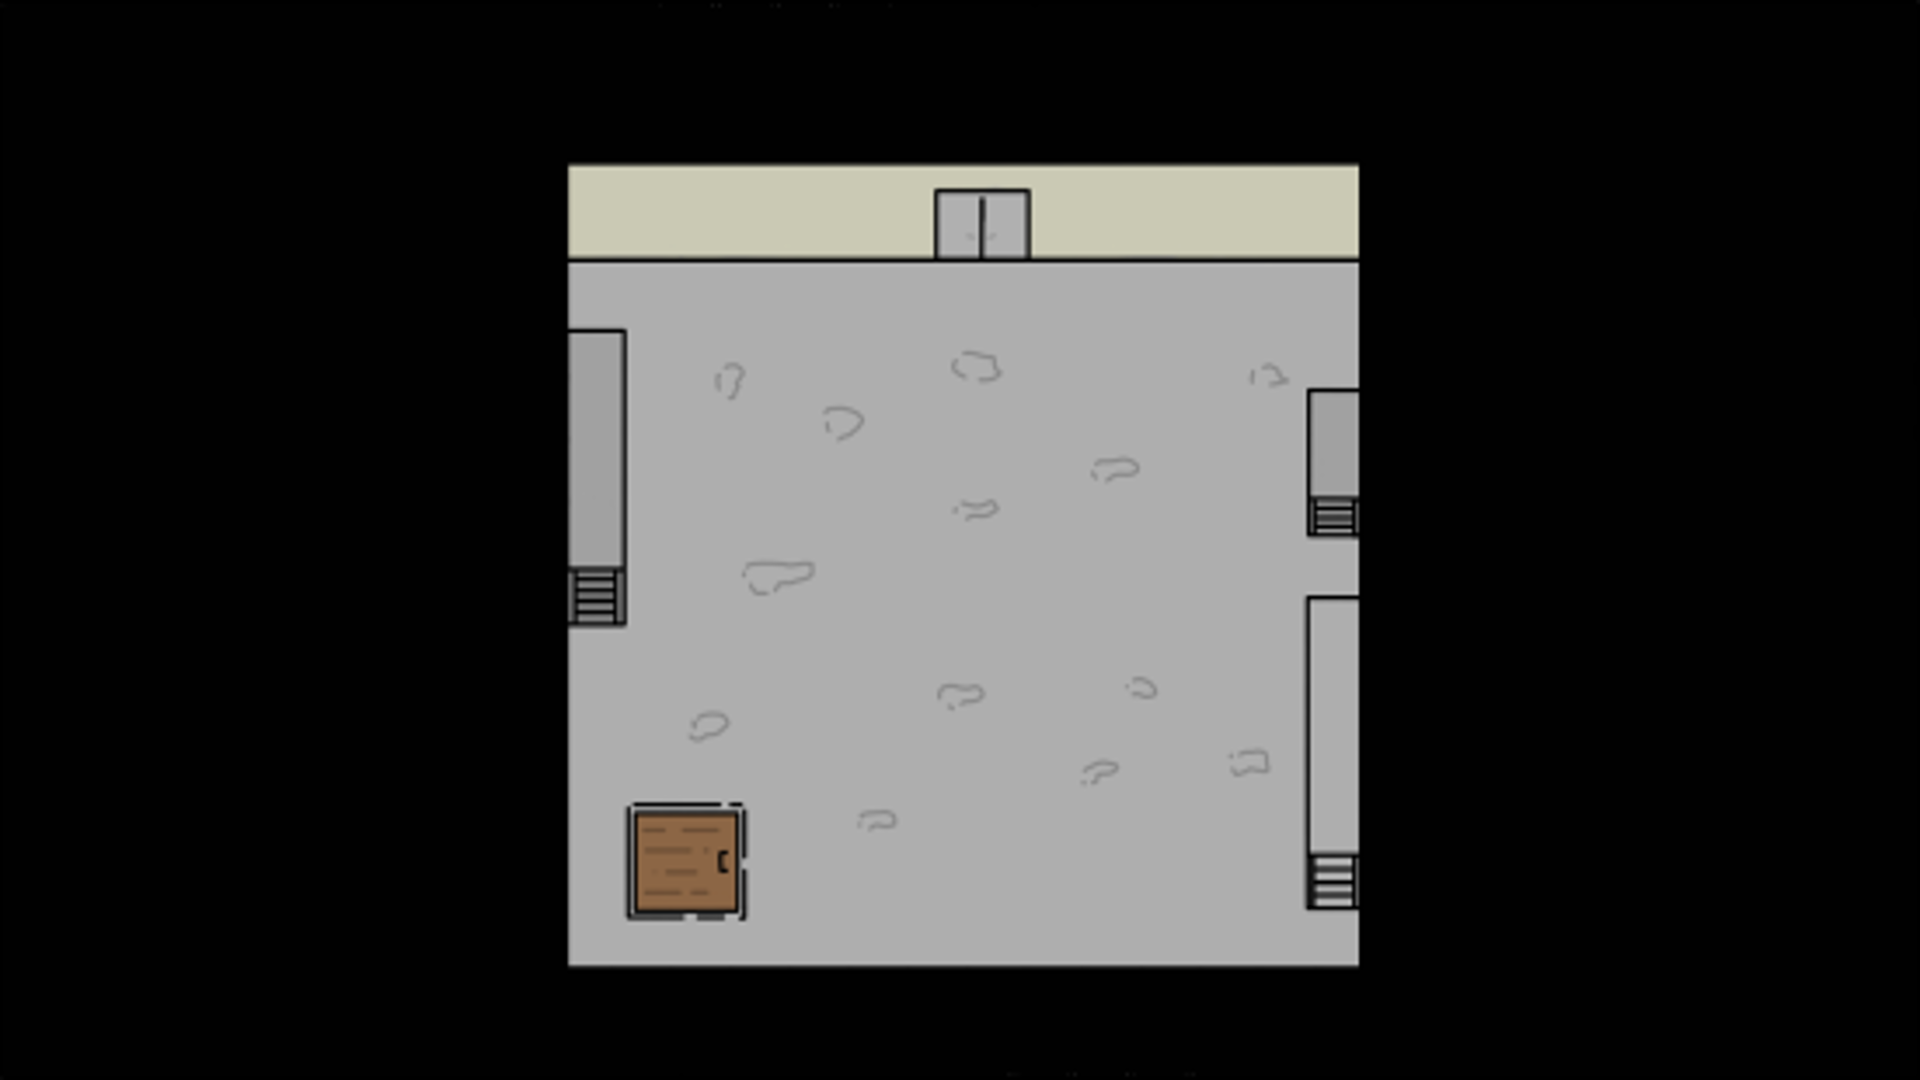
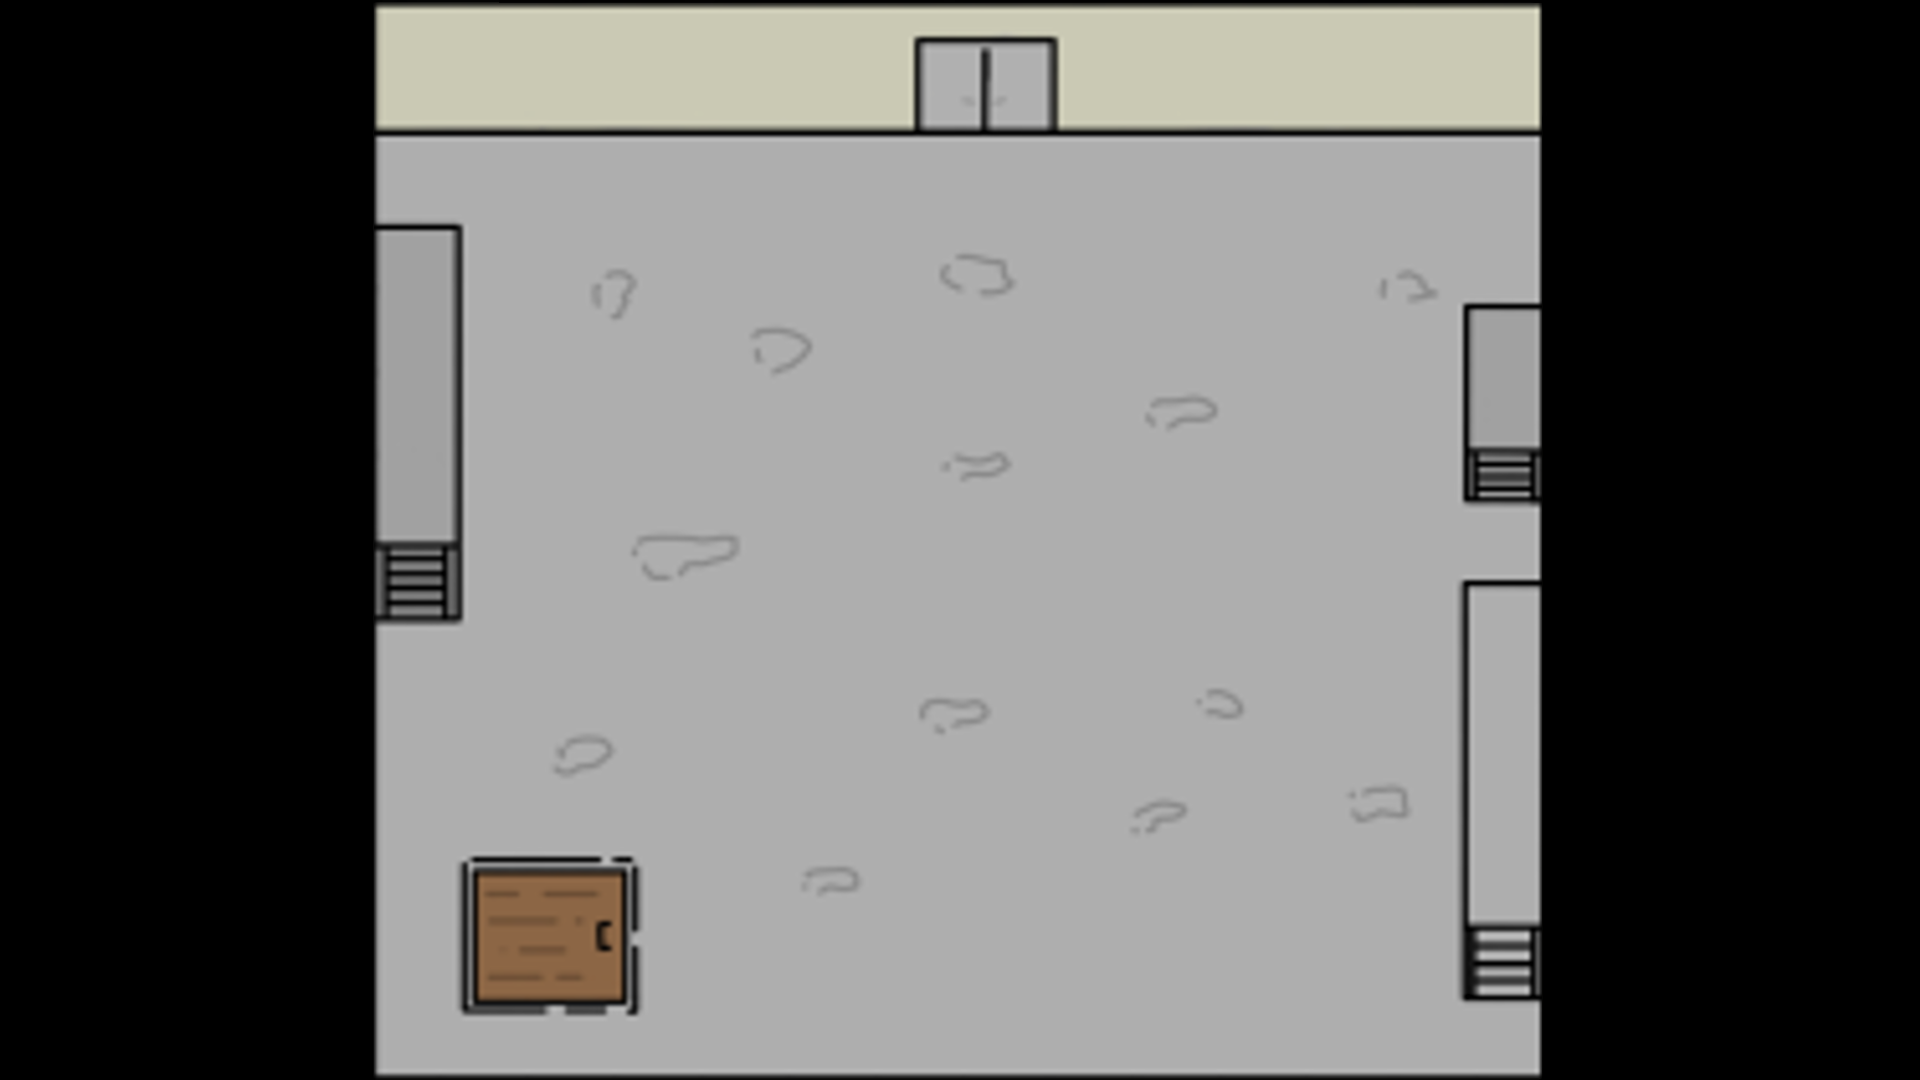
rooms 2

diff --git a/src/js/rooms/storageRoom.js b/src/js/rooms/storageRoom.js
@@ -3,16 +3,39 @@ import { mainCharacter } from '../mainCharacter.js'
 import { ghoul } from '../enemies/ghoul.js'
 import { spirit } from '../enemies/spirit.js'
 import { Resources } from '../resources.js'
+import { Barrier } from '../ui/barrier.js'
+import { Tp } from '../ui/tp.js'
+import { Licht } from '../props/licht.js'
 
 import { roomBack } from './roomBack.js'
 import { room } from './room.js'
+import { poltergeist } from "../enemies/poltergeist.js"
 
 export class storageRoom extends room {
     roomBackground = Resources.Storage
-    constructor() {
-        super({})
-    }
+    zwart
     spawnBarriers() {
-        
+
+        const up = new Barrier(767,80,950,10)
+        this.add(up)
+        const left = new Barrier(300,510,10,860)
+        this.add(left)
+        const right = new Barrier(1234,510,10,860)
+        this.add(right)
+
+        const teleporter = new Tp(767,80,90,20, this.game)
+        this.add(teleporter)
+    }
+    onDeactivate() {
+        this.Sjaak.kill()
+        this.Poltergeist.kill()
+    }
+
+    onActivate() {
+        this.Sjaak = new mainCharacter(767, 800)
+        this.add(this.Sjaak)
+
+        this.Poltergeist = new poltergeist(767, 200)
+        this.add(this.Poltergeist)
     }
 }

diff --git a/src/js/game.js b/src/js/game.js
@@ -41,7 +41,7 @@ export class Game extends Engine {
         this.addScene('bossRoom', this.bossroom)
         this.addScene('storageRoom', this.storageroom)
 
-        this.goToScene('titleMenu')
+        this.goToScene('storageRoom')
 
         console.log("Enjoy!")
     }
